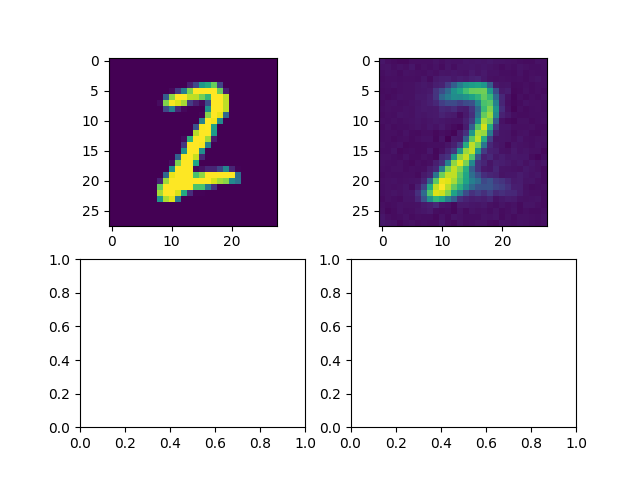
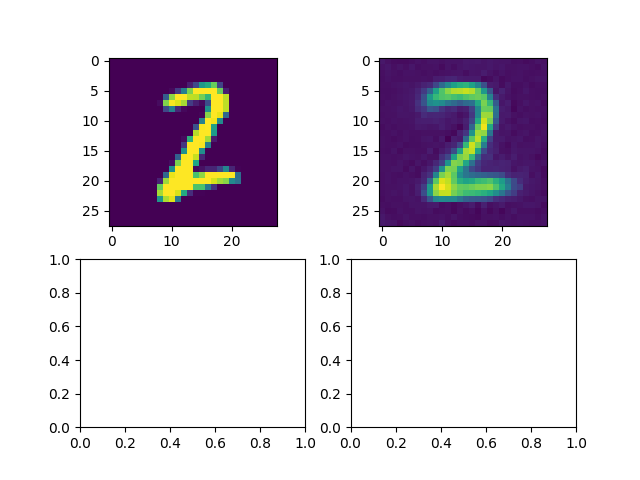
removed conditioning and redundant file

Changed region(s): [[0.6562, 0.3125, 0.8125, 0.4375], [0.6562, 0.1562, 0.7812, 0.2812]]

diff --git a/main.py b/main.py
@@ -36,7 +36,7 @@ image_width_height = 28
 target_layer_sizes = [784, 400, 200, 10]
 
 # Hypernetwork internal sizes
-embed_dim = 32           
+embed_dim = 0           
 head_hidden = 256        
 use_bias = True
 
@@ -68,7 +68,7 @@ class HyperNetwork(nn.Module):
         self.embed_dim = embed_dim
         self.condition_dim = condition_dim
         self.use_bias = use_bias
-
+        
         self.layer_embeddings = nn.ParameterList([
             nn.Parameter(torch.randn(embed_dim) * 0.1)
             for _ in range(self.num_layers)
@@ -92,9 +92,12 @@ class HyperNetwork(nn.Module):
     def forward(self, conditioning):
         params = []
         for j in range(self.num_layers):
-            z = self.layer_embeddings[j] 
+            if embed_dim > 0:
+                z = self.layer_embeddings[j] 
+                z_cond = torch.cat([z, conditioning], dim=0)
+            else:
+                z_cond = conditioning
 
-            z_cond = torch.cat([z, conditioning], dim=0)
             head_input = z_cond.unsqueeze(0)  
 
             flat = self.heads[j](head_input).squeeze(0)
@@ -379,7 +382,7 @@ def get_clusters(logits: torch.Tensor, y: torch.Tensor,
         if not return_all_ties and len(best_labels) > 1:
             best_labels = [best_labels[0]]
 
-        result[p] = (best_labels, top_count)
+        result[p] = (best_labels, top_count, total_for_pred)
 
     return result
 
